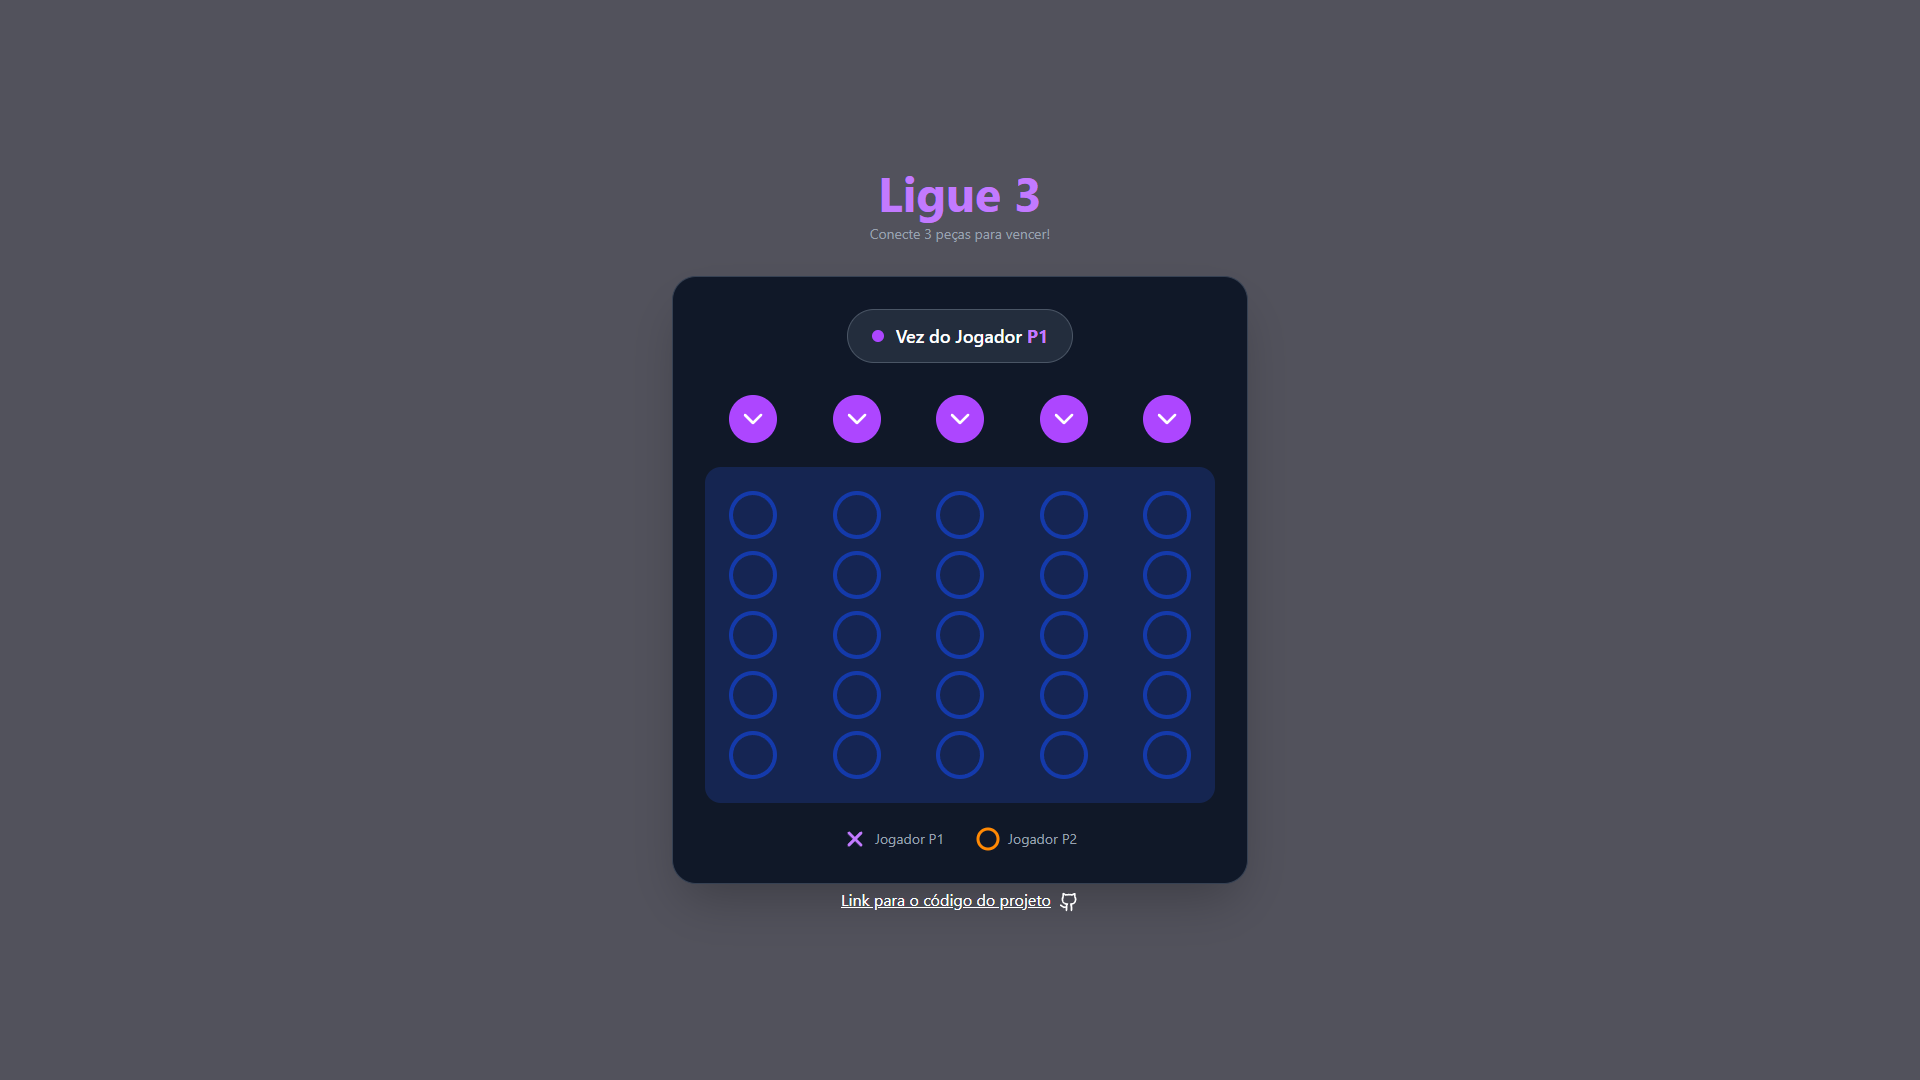
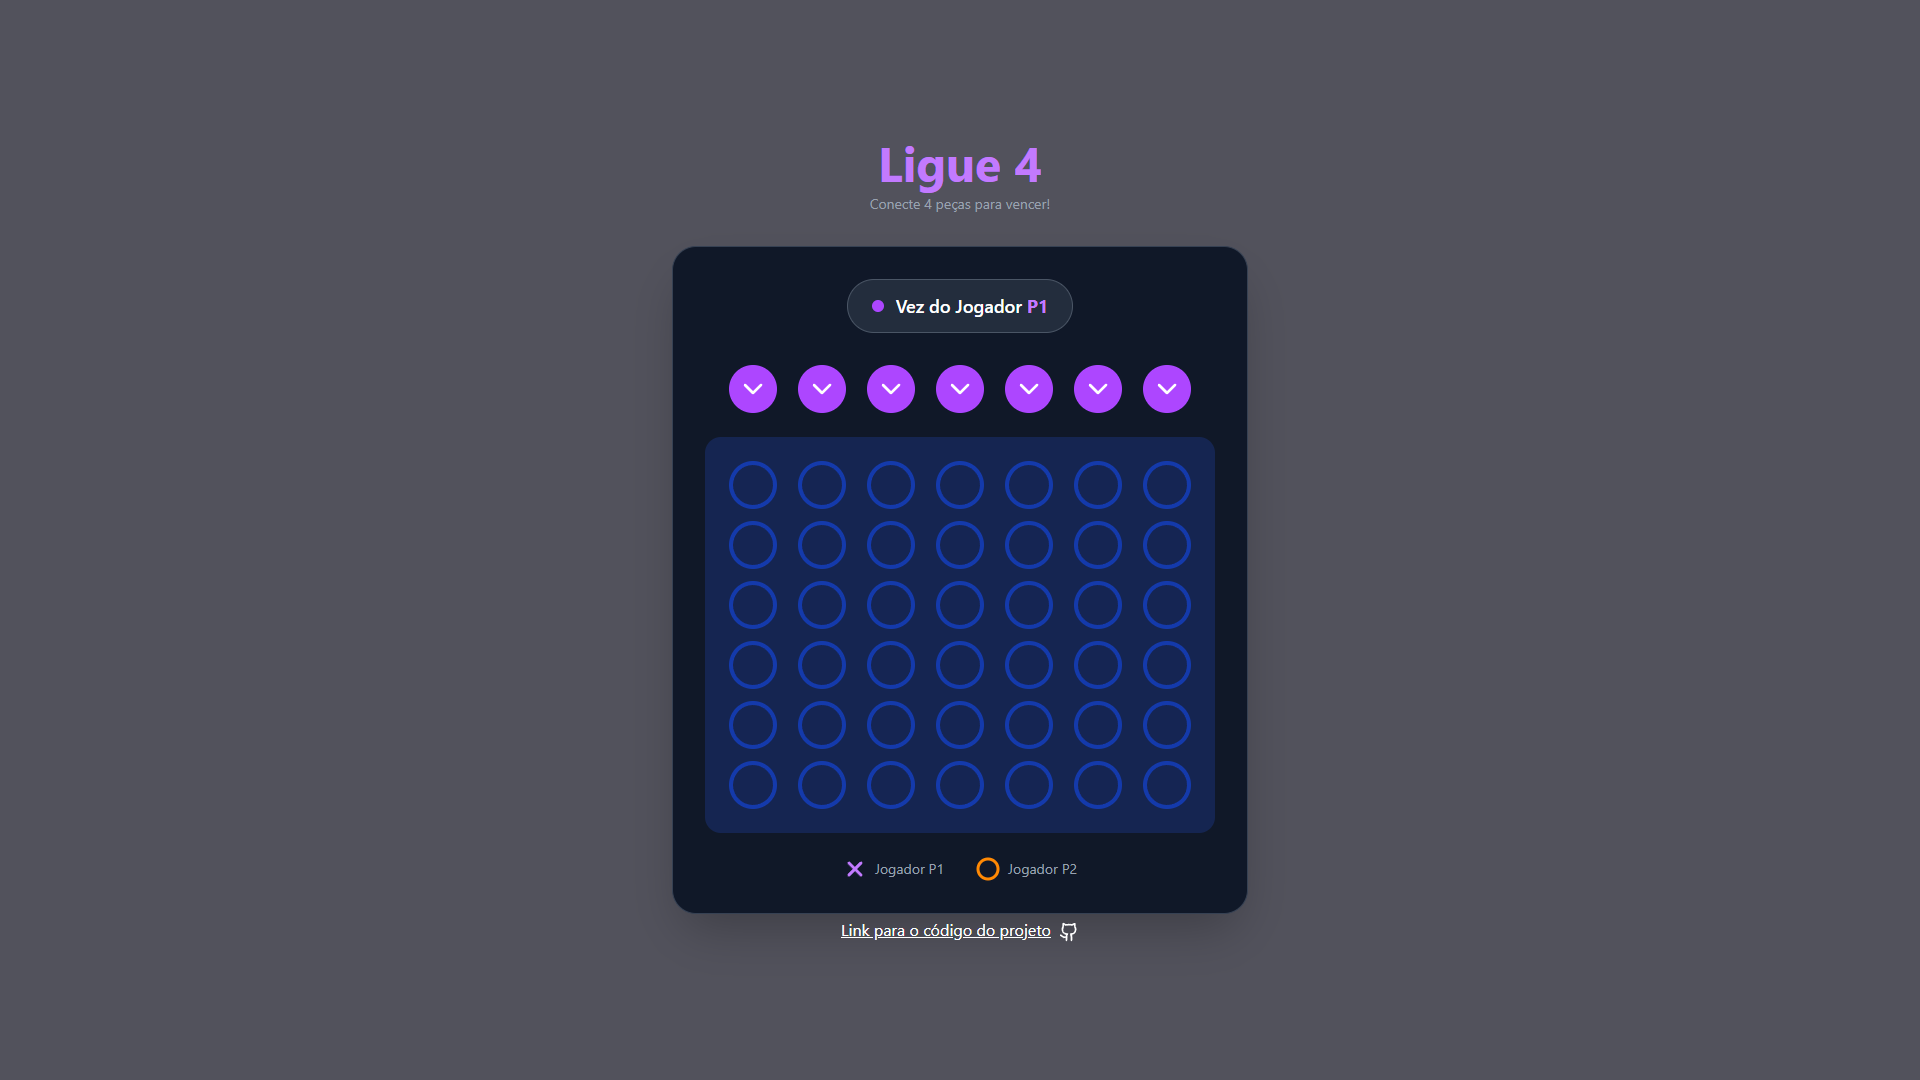
feat(projects): update projects

Changed region(s): [[0.3438, 0.1222, 0.6562, 0.8861]]

diff --git a/src/assets/projects.ts b/src/assets/projects.ts
@@ -1,23 +1,25 @@
 import ImgBuscarFilmes from "@/assets/imgs-projects/buscar-filmes.png";
-import ImgLig3 from "@/assets/imgs-projects/ligation.png";
+import ImgLig4 from "@/assets/imgs-projects/ligation.png";
 import ImgMathRandom from "@/assets/imgs-projects/math-random.png";
 import ImgPomodoroClock from "@/assets/imgs-projects/pomodoro-clock.png";
-import ImgRickAndMorty from "@/assets/imgs-projects/rick-and-morty.png";
 import ImgSuperTicTacToe from "@/assets/imgs-projects/super-tic-tac-toe-beta.vercel.app_.png";
+import ImgWeatherApp from "@/assets/imgs-projects/weather.png";
 
 export const projects = {
   en: [
     {
-      name: "Super Tic Tac Toe",
+      name: "Weather App",
       description:
-        "Super Tic Tac Toe is a web application that allows you to play the classic Tic Tac Toe game, but with a special rule that allows several possibilities on the board.",
-      imgSRC: ImgSuperTicTacToe
+        "A fullstack weather application that provides current weather information using a weather API.",
+      imgSRC: ImgWeatherApp,
+      github: "https://github.com/matheusdsilva01/weather-fullstack/",
+      site: "https://github.com/matheusdsilva01/weather-fullstack/"
     },
     {
-      name: "Lig 3",
+      name: "Lig 4",
       description:
         "A mini game known as 'Ligation', where the objective is to connect three pieces of the same color in any direction.",
-      imgSRC: ImgLig3,
+      imgSRC: ImgLig4,
       github: "https://github.com/matheusdsilva01/ligation",
       site: "https://lig-4-virid.vercel.app/"
     },
@@ -28,6 +30,12 @@ export const projects = {
       imgSRC: ImgBuscarFilmes,
       github: "https://github.com/matheusdsilva01/buscar-filmes",
       site: "https://buscar-filmes.vercel.app/"
+    },
+    {
+      name: "Super Tic Tac Toe",
+      description:
+        "Super Tic Tac Toe is a web application that allows you to play the classic Tic Tac Toe game, but with a special rule that allows several possibilities on the board.",
+      imgSRC: ImgSuperTicTacToe
     },
     {
       name: "Pomodoro-clock",
@@ -44,30 +52,22 @@ export const projects = {
       imgSRC: ImgMathRandom,
       github: "https://github.com/matheusdsilva01/math-random",
       site: "https://math-random-chi.vercel.app/"
-    },
-    {
-      name: "Rick and Morty",
-      description:
-        "Project to search for characters from the Rick and Morty series, using the Rick and Morty API with favorites selection and character filter.",
-      imgSRC: ImgRickAndMorty,
-      github: "https://github.com/matheusdsilva01/rick-and-morty",
-      site: "https://rick-and-morty-livid.vercel.app/"
     }
   ],
   "pt-BR": [
     {
-      name: "Super Jogo da velha",
+      name: "Weather App",
       description:
-        "Super Jogo da velha é uma aplicação web que permite jogar o clássico jogo da velha, mas com uma regra especial que permite várias possibilidades no tabuleiro.",
-      imgSRC: ImgSuperTicTacToe,
-      github: "https://github.com/matheusdsilva01/super-tic-tac-toe",
-      site: "https://super-tic-tac-toe-beta.vercel.app/"
+        "Uma aplicação fullstack de clima que fornece informações meteorológicas atuais usando uma API de clima.",
+      imgSRC: ImgWeatherApp,
+      github: "https://github.com/matheusdsilva01/weather-fullstack/",
+      site: "https://github.com/matheusdsilva01/weather-fullstack/"
     },
     {
-      name: "Lig 3",
+      name: "Lig 4",
       description:
         "Um mini game conhecido como 'Ligação', onde o objetivo é conectar três peças da mesma cor em qualquer direção.",
-      imgSRC: ImgLig3,
+      imgSRC: ImgLig4,
       github: "https://github.com/matheusdsilva01/ligation",
       site: "https://lig-4-virid.vercel.app/"
     },
@@ -78,6 +78,14 @@ export const projects = {
       imgSRC: ImgBuscarFilmes,
       github: "https://github.com/matheusdsilva01/buscar-filmes",
       site: "https://buscar-filmes.vercel.app/"
+    },
+    {
+      name: "Super Jogo da velha",
+      description:
+        "Super Jogo da velha é uma aplicação web que permite jogar o clássico jogo da velha, mas com uma regra especial que permite várias possibilidades no tabuleiro.",
+      imgSRC: ImgSuperTicTacToe,
+      github: "https://github.com/matheusdsilva01/super-tic-tac-toe",
+      site: "https://super-tic-tac-toe-beta.vercel.app/"
     },
     {
       name: "Pomodoro-clock",
@@ -94,14 +102,6 @@ export const projects = {
       imgSRC: ImgMathRandom,
       github: "https://github.com/matheusdsilva01/math-random",
       site: "https://math-random-chi.vercel.app/"
-    },
-    {
-      name: "Rick and Morty",
-      description:
-        "Projeto para busca de personagens da série Rick and Morty, usando API do Rick and Morty com seleção de favoritos e filtro de personagens.",
-      imgSRC: ImgRickAndMorty,
-      github: "https://github.com/matheusdsilva01/rick-and-morty",
-      site: "https://rick-and-morty-livid.vercel.app/"
     }
   ]
 };
